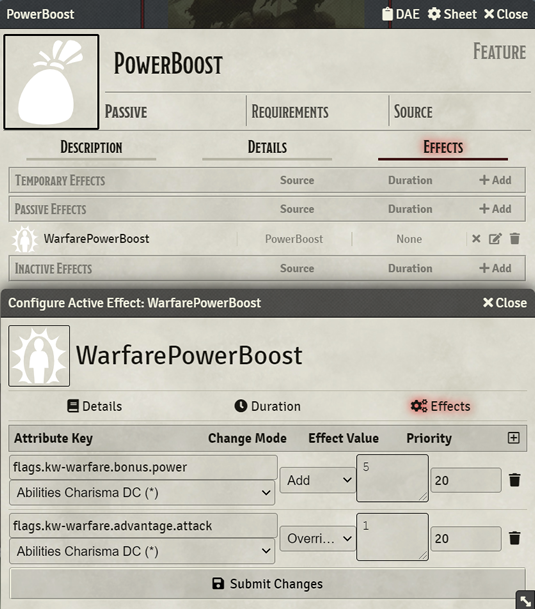
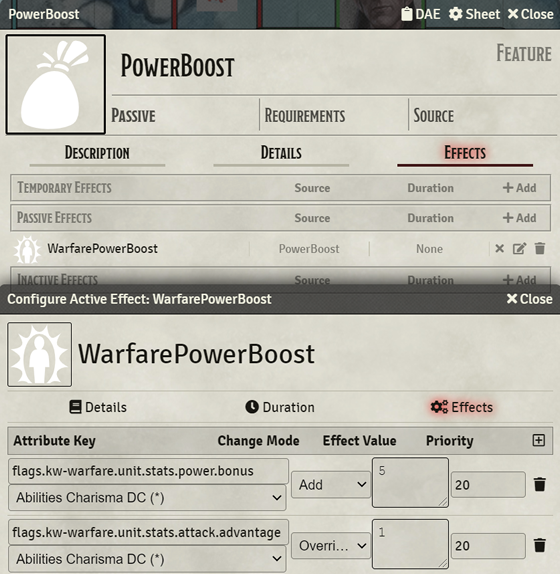
docs(examples): Redo example images

diff --git a/README.md b/README.md
@@ -56,33 +56,28 @@ To use: Create an NPC actor and use the 'K&W Unit Sheet' sheet.
 ### Active Effects
 Use traits or [DAE](https://foundryvtt.com/packages/dae) to add effects to the unit.
 
-|Available flags|key|acceptable values|
+All flags are prefixed with `flags.kw-warfare.unit`
+
+|Available flags|key||
 |---|---|---|
-|Stat Value|`flags.kw-warfare.unit.{attribute}.value`||
-| |`flags.kw-warfare.unit.attack.value`|any number|
-| |`flags.kw-warfare.unit.defense.value`|any number|
-| |`flags.kw-warfare.unit.morale.value`|any number|
-| |`flags.kw-warfare.unit.power.value`|any number|
-| |`flags.kw-warfare.unit.toughness.value`|any number|
-|Stat Bonus|`flags.kw-warfare.unit.{attribute}.bonus`||
-| |`flags.kw-warfare.unit.attack.bonus`|any number|
-| |`flags.kw-warfare.unit.defense.bonus`|any number|
-| |`flags.kw-warfare.unit.morale.bonus`|any number|
-| |`flags.kw-warfare.unit.power.bonus`|any number|
-| |`flags.kw-warfare.unit.toughness.bonus`|any number|
-|Advantage|`flags.kw-warfare.unit.{attribute}.advantage`||
-| |`flags.kw-warfare.unit.attack.advantage`|0 for false, 1 for true|
-| |`flags.kw-warfare.unit.power.advantage`|0 for false, 1 for true|
-| |`flags.kw-warfare.unit.morale.advantage`|0 for false, 1 for true|
-| |`flags.kw-warfare.unit.command.advantage`|0 for false, 1 for true|
-|Disadvantage|`flags.kw-warfare.unit.{attribute}.disadvantage`||
-| |`flags.kw-warfare.unit.attack.disadvantage`|0 for false, 1 for true|
-| |`flags.kw-warfare.unit.power.disadvantage`|0 for false, 1 for true|
-| |`flags.kw-warfare.unit.morale.disadvantage`|0 for false, 1 for true|
-| |`flags.kw-warfare.unit.command.disadvantage`|0 for false, 1 for true|
-|Damage|`flags.kw-warfare.unit.damage`|any number|
-|Number of Attacks|`flags.kw-warfare.unit.numberOfAttacks`|any number|
-|Diminishable|`flags.kw-warfare.unit.special.diminishable`|0 for false, 1 for true|
+|Stat Value|`{stat}.value`||
+| |Valid stats|`attack`, `defense`, `morale`, `power`, `toughness`|
+| |Acceptable values|any number|
+|Stat Bonus|`{stat}.bonus`||
+| |Valid stats|`attack`, `defense`, `morale`, `power`, `toughness`|
+| |Acceptable values|any number|
+|Advantage|`{stat}.advantage`||
+| |Valid stats|`attack`, `power`, `morale`, `command`|
+| |Acceptable values|0 for false, 1 for true|
+|Disadvantage|`{stat}.disadvantage`||
+| |Valid stats|`attack`, `power`, `morale`, `command`|
+| |Acceptable values|0 for false, 1 for true|
+|Damage|`damage`||
+| |Acceptable values|any number|
+|Number of Attacks|`numberOfAttacks`|
+| |Acceptable values|any number|
+|Diminishable|`special.diminishable`|
+| |Acceptable values|0 for false, 1 for true|
 
 A unit's size can also be modified using active effects by modifying the hp/max hp of the unit.
 
